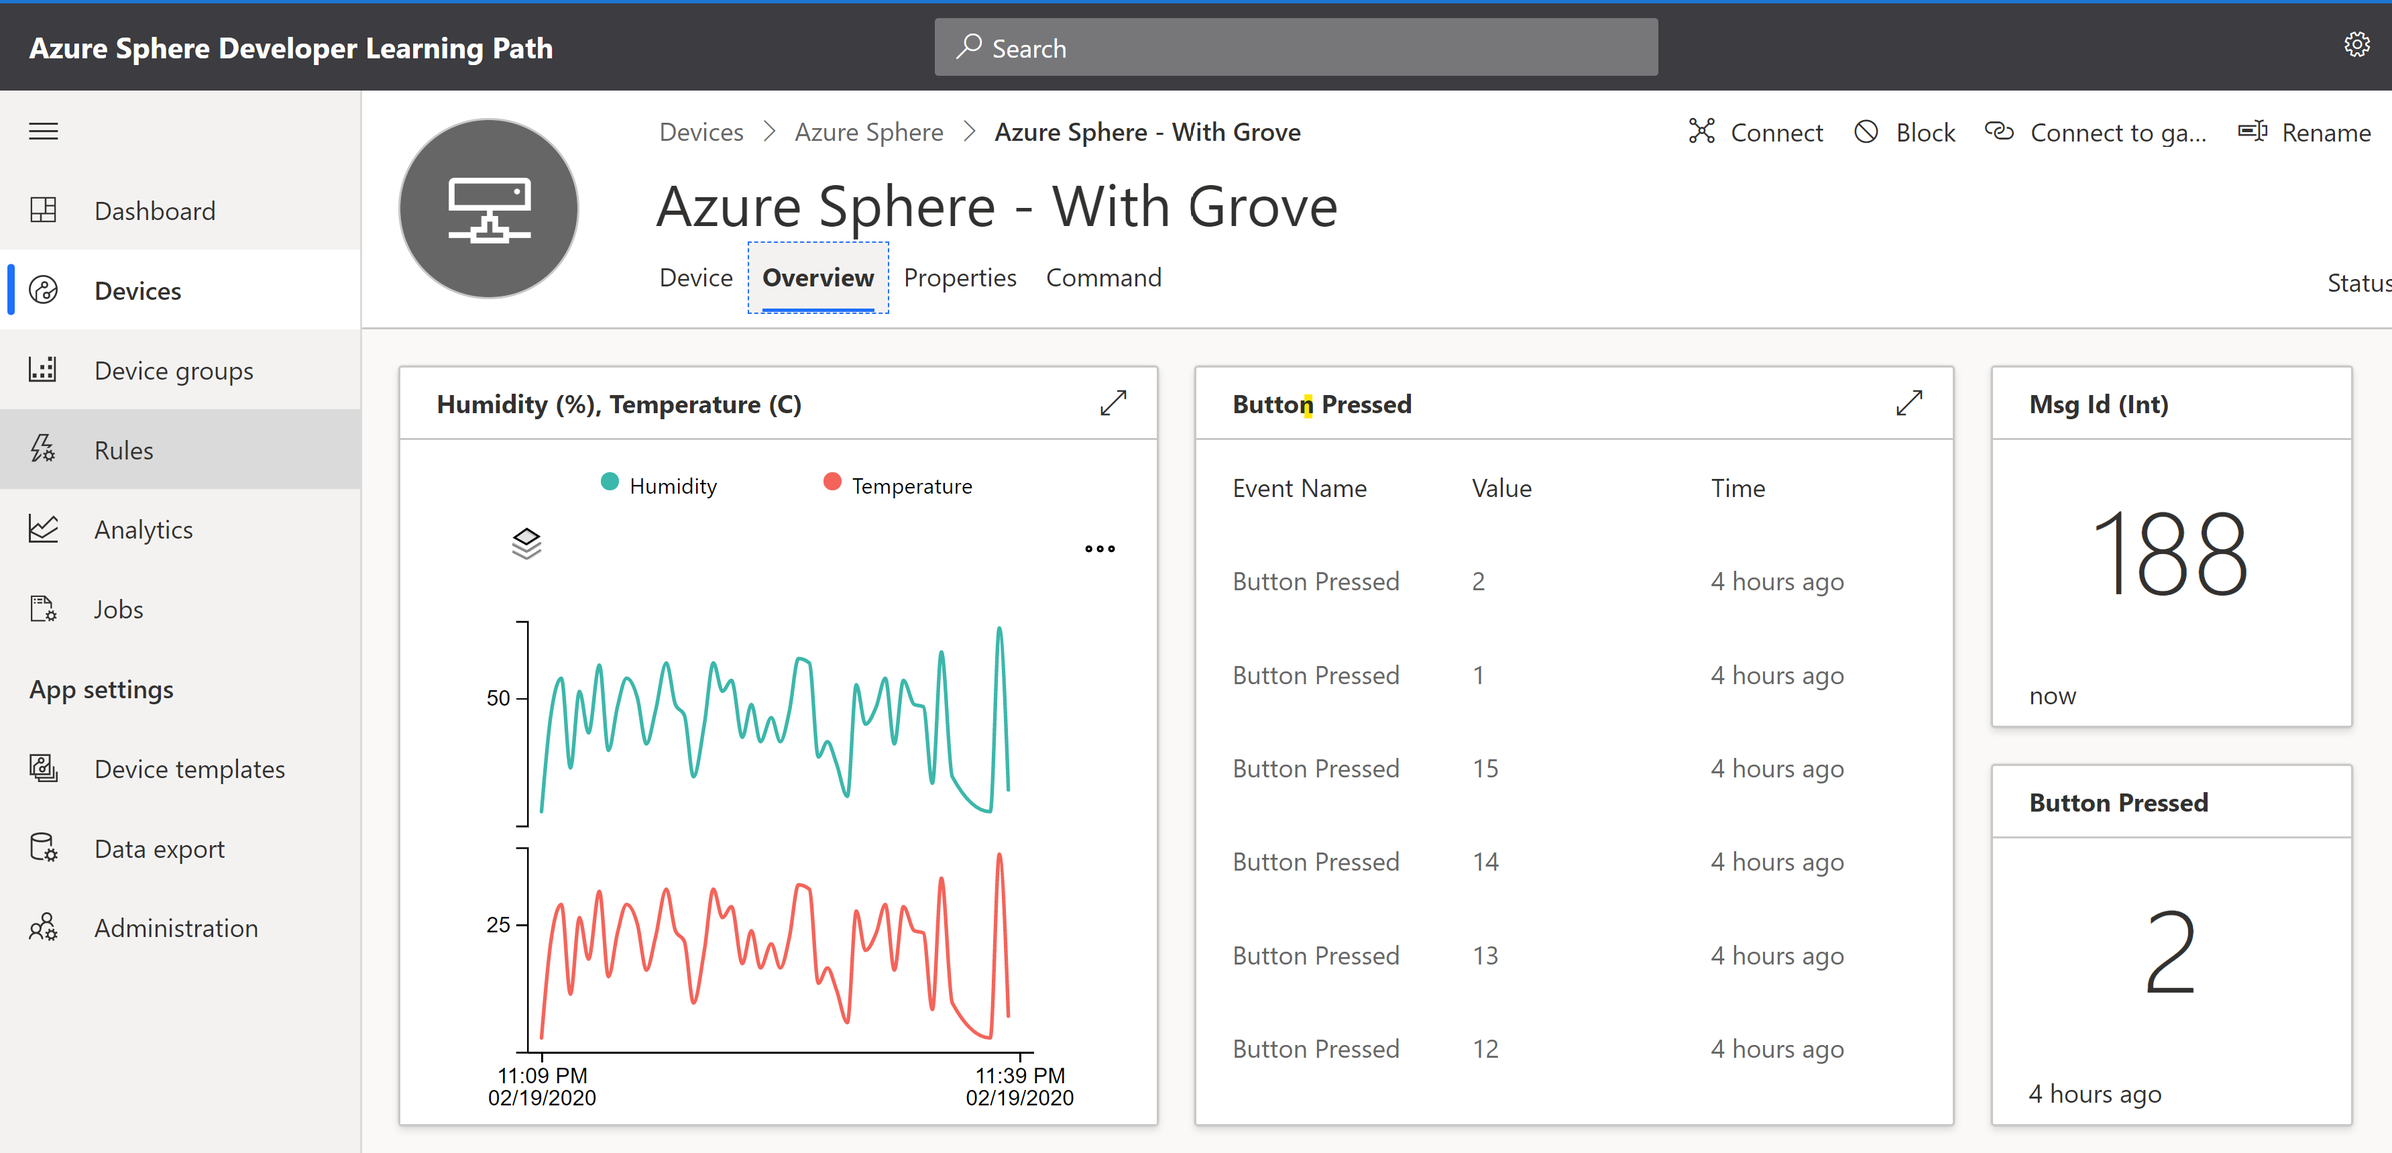
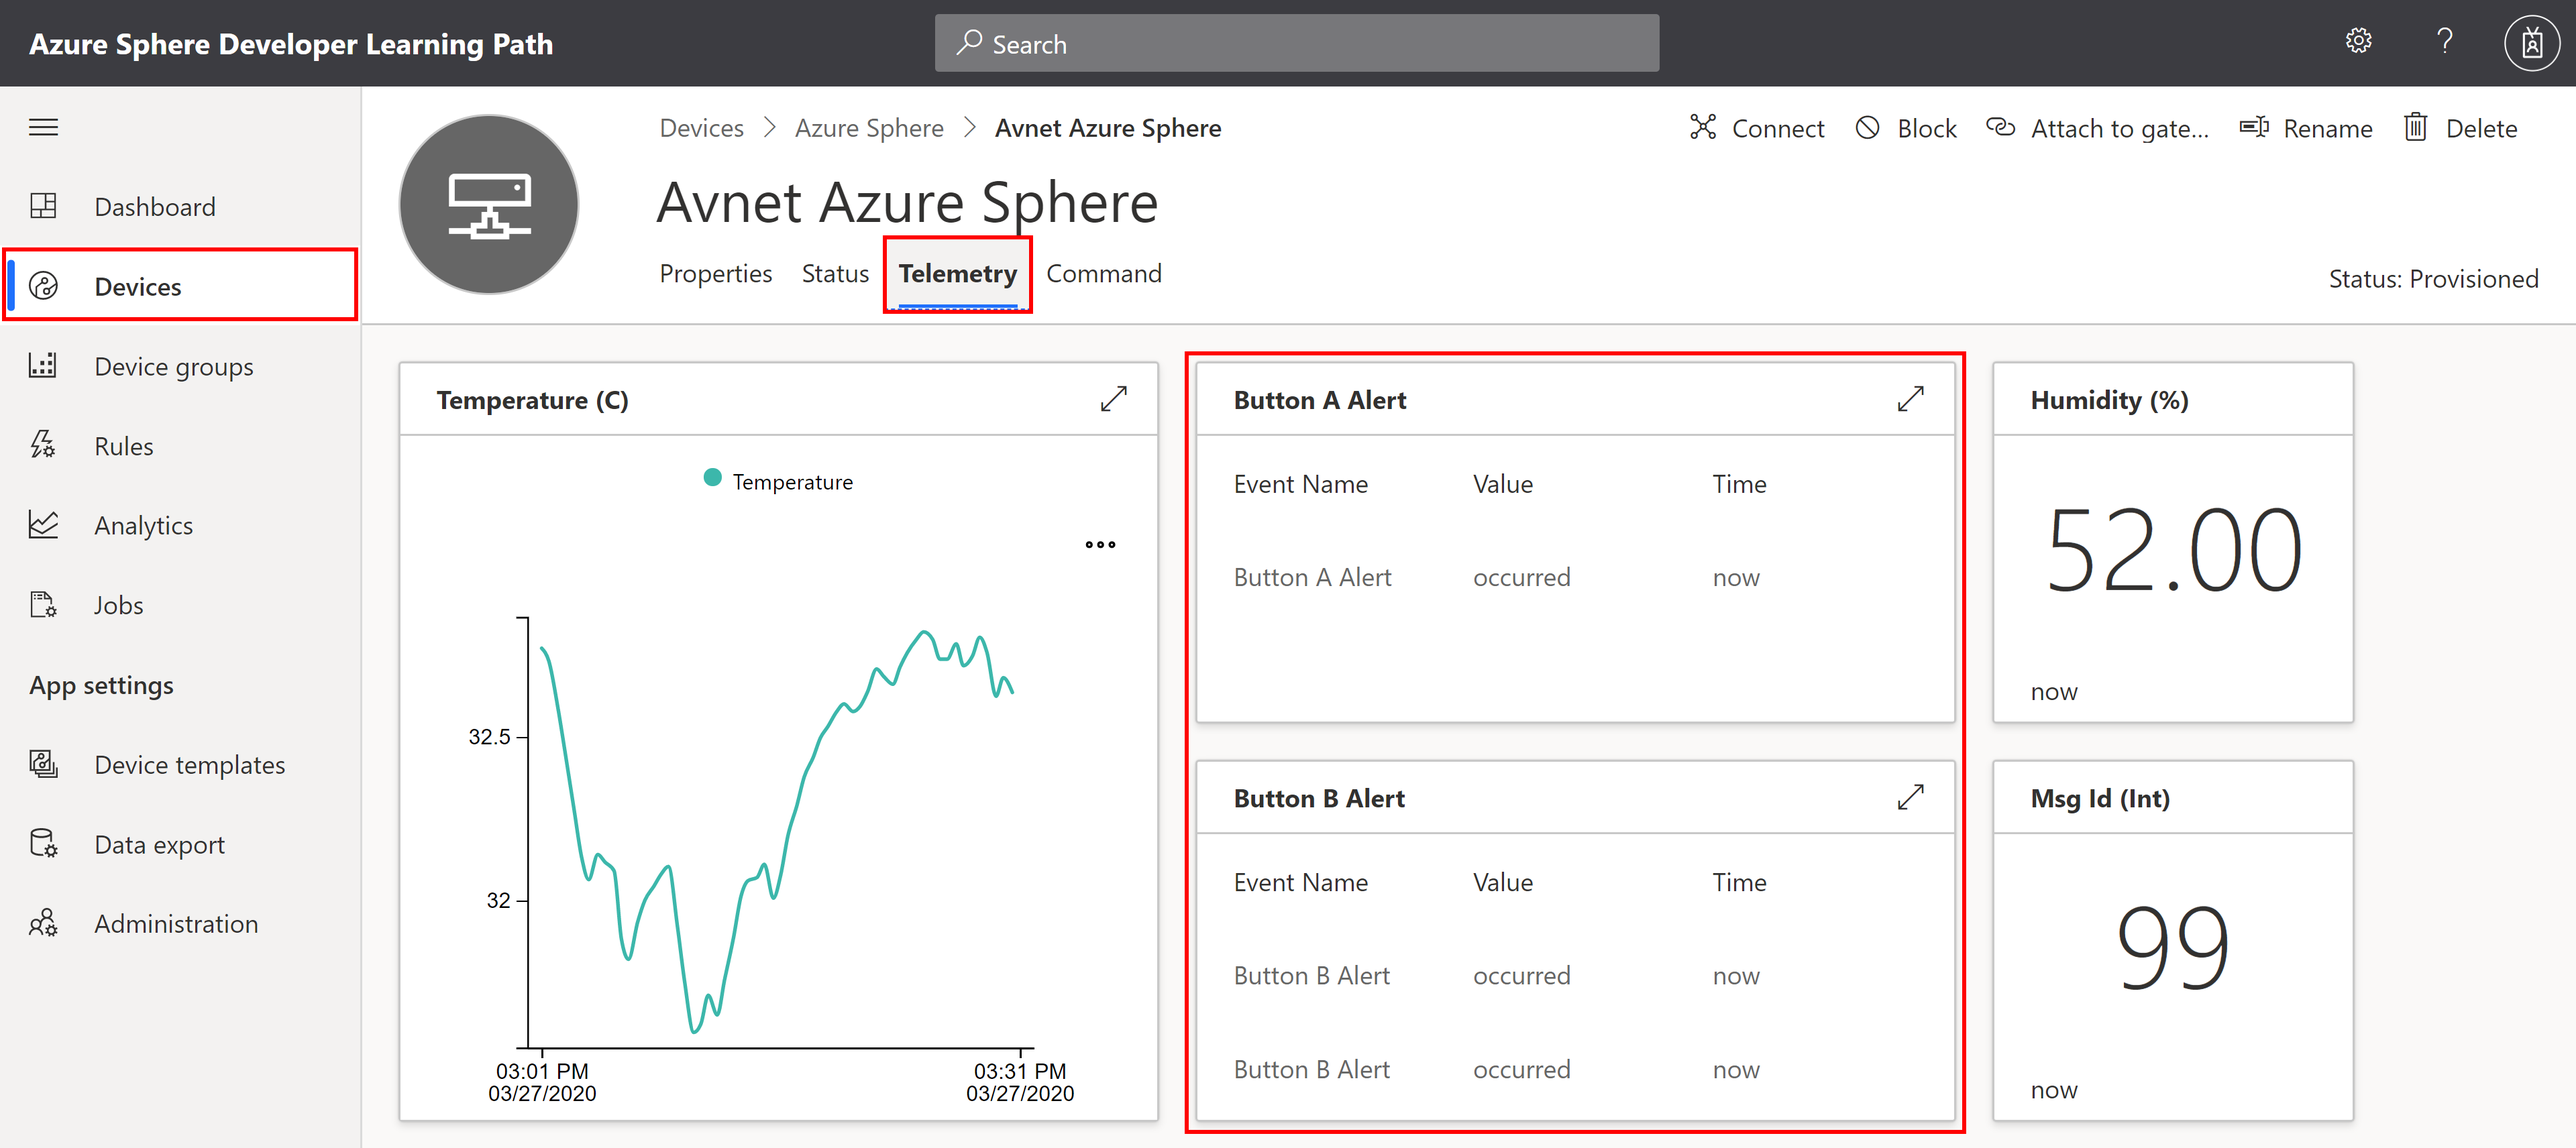
doco

diff --git a/zdocs/Lab_3_Control_Device_with_Device_Twins_and_Direct_Methods/README.md b/zdocs/Lab_3_Control_Device_with_Device_Twins_and_Direct_Methods/README.md
@@ -322,7 +322,24 @@ static DirectMethodResponseCode ResetDirectMethod(JSON_Object* json, DirectMetho
 
 ## Azure IoT Central Events
 
+Azure IoT Central can be configured to treat some telemetry as events. You would typically use these for alerts or notifications. For example, an emergency button was pressed.
 
+### Azure IoT Central Interface Events
+
+Defined in the Azure IoT Central Device template, under Interface, ButtonA and ButtonB are configured as **Events**.
+
+![](resources/iot-central-template-interface-events.png)
+
+These events are mapped to the following JSON formatted messages sent from the Azure Sphere:
+
+* { "ButtonA": "occurred" }
+* { "ButtonB": "occurred" }
+
+### Azure IoT Central displaying events
+
+These events are displayed in the Azure Sphere template from under the Telemetry panel.
+
+![](resources/iot-central-display-events.png)
 
 ---
 
@@ -466,6 +483,9 @@ To start the build, deploy, and debug process, either click the Visual Studio **
 1. Switch to Azure IoT Central in your browser.
 2. Select the **Devices**, then the **Azure Sphere** template, then your device.
 3. Select the **Telemetry** tab.
+4. Azure Sphere devices with builtin buttons, press **Button A** and **Button B** repeatedly to generate button alerts. 
+
+	Virtual button press events are generated for Azure Sphere devices that do not have builtin buttons. 
 
 Azure IoT Central does not update immediately. It may take a minute or two for temperature, humidity, button pressed alerts, and message count to be displayed.
 
